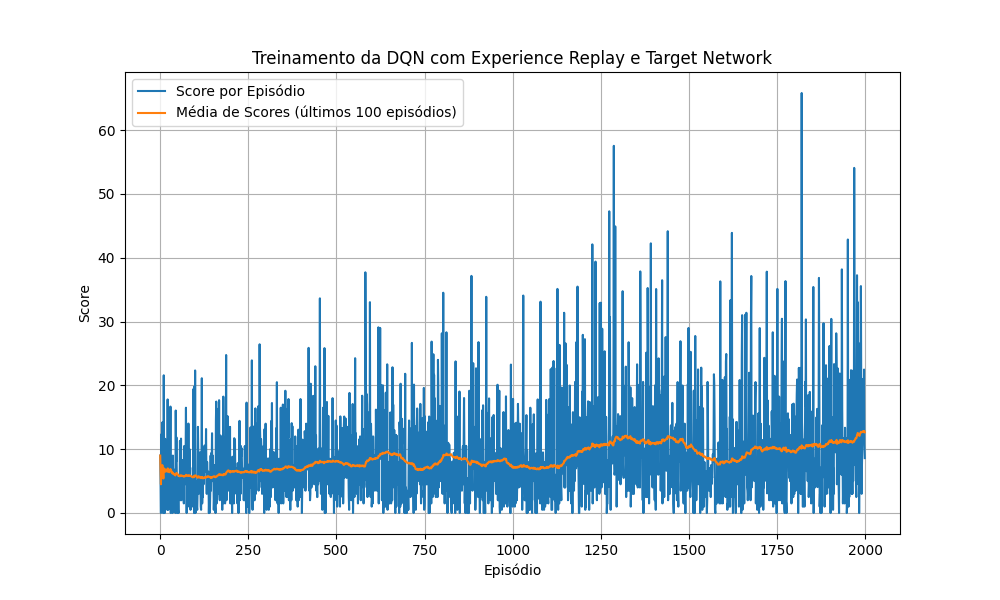
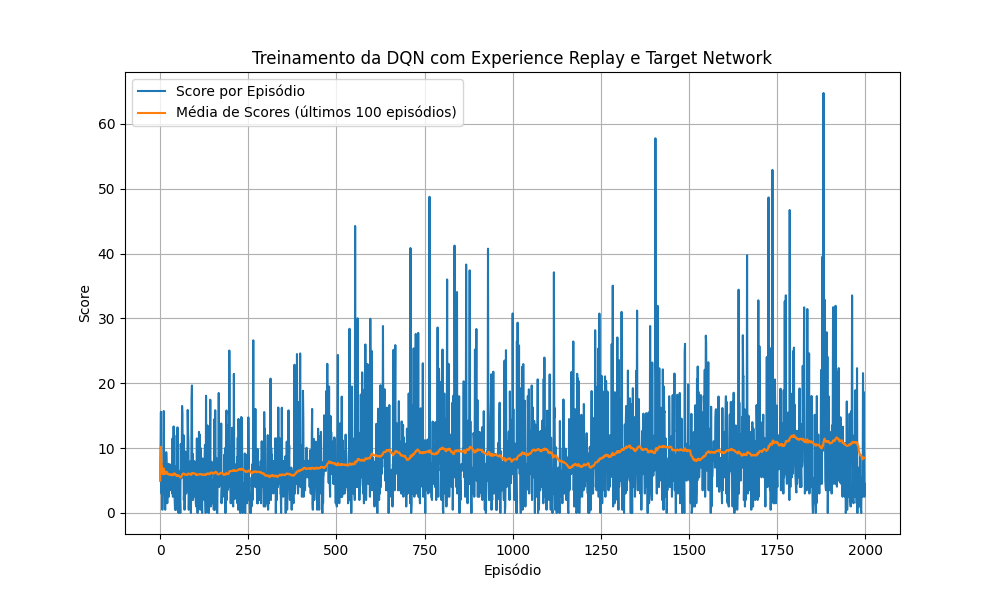
update Task2

Changed region(s): [[0.093, 0.3, 0.899, 0.87], [0.775, 0.18, 0.837, 0.24], [0.093, 0.18, 0.124, 0.24]]

diff --git a/Task2/train.py b/Task2/train.py
@@ -12,30 +12,25 @@ import pygame
 from policies import *
 from utils import preprocess
 # Importa o ReplayBuffer
-from Task2.replay_buffer import ReplayBuffer 
+from replay_buffer import ReplayBuffer 
 
 device = torch.device("cuda" if torch.cuda.is_available() else "cpu")
 
 # --- Treinamento --------------------------------------------------------
 def train(env, num_episodes=2000, max_steps_per_episode=1000,
-          epsilon_start=1.0, epsilon_end=0.01, epsilon_decay=0.999,
+          epsilon_start=1.0, epsilon_end=0.01, epsilon_decay=0.995,
           batch_size=64, learning_rate=0.0005, gamma=0.99,
-          buffer_capacity=10000, num_warmup_steps=2000,
-          target_update_freq=100):
+          buffer_capacity=10000, num_warmup_steps=5000,
+          target_update_freq=100, inject_interval=20, inject_amount=1000):
 
     # Modelo principal (online network)
     model = CNN_QNet(input_shape=(1, env.height + 2 * env.border, env.width + 2 * env.border)).to(device)
-    # Target Network - CÓPIA IDÊNTICA DA ONLINE NETWORK
     target_model = CNN_QNet(input_shape=(1, env.height + 2 * env.border, env.width + 2 * env.border)).to(device)
-    target_model.load_state_dict(model.state_dict()) # Inicializa a target com os pesos da online
-    target_model.eval() # Coloca a target network em modo de avaliação (sem updates de gradiente)
+    target_model.load_state_dict(model.state_dict())
+    target_model.eval()
 
     trainer = QTrainer(model, lr=learning_rate, gamma=gamma)
-    
-    # Replay Buffer
     replay_buffer = ReplayBuffer(capacity=buffer_capacity)
-    
-    # Popula o buffer inicialmente (warm-start)
     replay_buffer.populate(env, heuristic_policy, num_warmup_steps)
 
     epsilon = epsilon_start
@@ -44,14 +39,17 @@ def train(env, num_episodes=2000, max_steps_per_episode=1000,
     plot_scores = []
     plot_mean_scores = []
     record = 0
-    
-    # Variável para contar os passos globais e atualizar a target network
     global_step_counter = 0 
-    
+
     print(f"A treinar no dispositivo: {device}...")
     start_time = time.time()
 
     for episode in range(num_episodes):
+        # --- Injecting experiências ---
+        if episode > 0 and episode % inject_interval == 0:
+            replay_buffer.populate(env, heuristic_policy, inject_amount)
+            print(f">>> Injected {inject_amount} heuristic experiences at episode {episode}")
+
         state_raw, _, _, _ = env.reset()
         preprocessed_state = preprocess(state_raw)
         score = 0
@@ -59,7 +57,6 @@ def train(env, num_episodes=2000, max_steps_per_episode=1000,
         done = False
 
         while not done and steps_in_episode < max_steps_per_episode:
-            # Seleciona a ação (epsilon-greedy)
             if random.random() < epsilon:
                 action = random.choice([-1, 0, 1])
             else:
@@ -68,51 +65,38 @@ def train(env, num_episodes=2000, max_steps_per_episode=1000,
                     prediction = model(state_tensor)
                 action = [-1, 0, 1][torch.argmax(prediction).item()]
 
-            # Executa a ação
             next_state_raw, reward, done, info = env.step(action)
             preprocessed_next_state = preprocess(next_state_raw)
 
-            # Armazena a transição no replay buffer
             action_idx = action + 1
             replay_buffer.add(preprocessed_state, action_idx, reward, preprocessed_next_state, done)
 
-            # Atualiza o estado
             preprocessed_state = preprocessed_next_state
             score += reward
             steps_in_episode += 1
             global_step_counter += 1
 
-            # Treina o modelo se houver experiências suficientes no buffer e a cada 4 passos (para eficiência)
             if len(replay_buffer) > batch_size and global_step_counter % 4 == 0:
-                # Amostra um batch do buffer
                 states_batch, actions_batch, rewards_batch, next_states_batch, dones_batch = replay_buffer.sample(batch_size)
-                
-                # Converte para tensores PyTorch
+
                 states_batch = torch.tensor(states_batch, dtype=torch.float32).to(device)
                 actions_batch = torch.tensor(actions_batch, dtype=torch.int64).to(device)
                 rewards_batch = torch.tensor(rewards_batch, dtype=torch.float32).to(device)
                 next_states_batch = torch.tensor(next_states_batch, dtype=torch.float32).to(device)
                 dones_batch = torch.tensor(dones_batch, dtype=torch.bool).to(device)
 
-                # Calcular Q-values para o estado atual (online network)
                 q_values_online = model(states_batch)
                 q_current_action = q_values_online.gather(1, actions_batch.unsqueeze(1)).squeeze(1)
 
-                # Calcular Q-values para o próximo estado (target network)
                 with torch.no_grad():
                     q_next_state = target_model(next_states_batch).max(1)[0]
 
-                # Calcular os alvos Q-values
                 q_targets = rewards_batch + trainer.gamma * q_next_state * (~dones_batch)
-
-                # Chamar o train_step com os Q_current_action e q_targets
                 loss = trainer.train_step(q_current_action, q_targets)
-            
-            # Atualiza a Target Network a cada 'target_update_freq' passos globais
+
             if global_step_counter % target_update_freq == 0:
                 target_model.load_state_dict(model.state_dict())
-            
-        # Reduz epsilon
+
         epsilon = max(epsilon_end, epsilon * epsilon_decay)
 
         total_scores.append(score)
@@ -125,7 +109,7 @@ def train(env, num_episodes=2000, max_steps_per_episode=1000,
 
         elapsed_time = time.time() - start_time
         print(f'Episódio {episode+1}/{num_episodes} | Score: {score:.2f} | Recorde: {record:.2f} | Epsilon: {epsilon:.2f} | Média Score (100): {mean_score:.2f} | Passos no episódio: {steps_in_episode} | Tempo Decorrido: {elapsed_time:.1f}s')
-        
+
         plot_scores.append(score)
         plot_mean_scores.append(mean_score)
 
@@ -133,8 +117,7 @@ def train(env, num_episodes=2000, max_steps_per_episode=1000,
     print(f"\nTreino concluído em {total_training_time:.1f}s.")
     print(f"Pontuação média total: {np.mean(total_scores):.2f}")
 
-    # Plotar resultados
-    os.makedirs('./Task1/images', exist_ok=True)
+    os.makedirs('./Task2/images', exist_ok=True)
 
     plt.figure(figsize=(10, 6))
     plt.plot(plot_scores, label='Score por Episódio')
@@ -144,7 +127,7 @@ def train(env, num_episodes=2000, max_steps_per_episode=1000,
     plt.ylabel('Score')
     plt.legend()
     plt.grid(True)
-    plt.savefig('./Task1/images/treino_score_dqn_enhanced.png')
+    plt.savefig('./Task2/images/treino_score_dqn_enhanced.png')
     plt.close()
 
     plt.figure(figsize=(10, 6))
@@ -154,9 +137,8 @@ def train(env, num_episodes=2000, max_steps_per_episode=1000,
     plt.ylabel('Epsilon')
     plt.legend()
     plt.grid(True)
-    plt.savefig('./Task1/images/treino_epsilon_dqn_enhanced.png')
+    plt.savefig('./Task2/images/treino_epsilon_dqn_enhanced.png')
     plt.close()
-
 
     return model
 
@@ -260,4 +242,3 @@ def play_with_policy(env, policy, policy_name="Política", num_episodes=10, fps=
 
     print(f"Pontuação média para {policy_name} em {num_episodes} episódios: {np.mean(scores):.2f}")
     pygame.quit()
-

diff --git a/Task2/policies.py b/Task2/policies.py
@@ -156,7 +156,7 @@ def heuristic_policy(env, pathfind="bfs"):
     hy, hx = head
     ay, ax = apple
 
-    # 1) Usa BFS para encontrar o caminho mais curto até à maçã
+    # 1) Usa BFS ou A* para encontrar o caminho mais curto até à maçã
     pathfinder = bfs_path if pathfind == "bfs" else astar_path
     if path is None or len(path) == 0:
         path = pathfinder(head, apple, [head] + tail, env.width, env.height, env.border)
@@ -168,7 +168,6 @@ def heuristic_policy(env, pathfind="bfs"):
         next_cell = path.pop(0)
         ny, nx = next_cell
         # Calcula “direção desejada” com base na diferença entre head e next_cell
-        # Se head=(hy,hx) e next_cell=(ny,nx), então:
         if ny < hy:
             desired = 0  # N
         elif ny > hy:
@@ -178,15 +177,19 @@ def heuristic_policy(env, pathfind="bfs"):
         else:
             desired = 3  # W
 
-        # Converte desired em action = {-1,0,1} baseando-se em “direction”
-        action = ((desired - direction + 2) & 3) - 2
+        # Converte desired em action = {-1, 0, 1} baseando-se em “direction”
+        diff = (desired - direction) % 4  # Normalize to [0, 1, 2, 3]
+        if diff == 0:
+            action = 0  # Continue straight
+        elif diff == 1 or diff == 3:
+            action = 1 if diff == 1 else -1  # Turn right (diff=1) or left (diff=3)
+        else:
+            action = 0  # Opposite direction (diff=2), default to straight
         return action
 
-    # 2) Se não existir caminho via BFS (path is None), volta ao “look-ahead” de 1 passo:
+    # 2) Se não existir caminho via BFS/A* (path is None), volta ao “look-ahead” de 1 passo:
     #    tenta a ação que evita colisões no próximo movimento
     hy, hx = head
-    # Tenta ação “direção desejada” original antes usada (apontar à fruta)
-    # Reutiliza a lógica anterior para “desired” e “diff”
     if ay < hy:
         desired = 0
     elif ay > hy:
@@ -196,7 +199,13 @@ def heuristic_policy(env, pathfind="bfs"):
     else:
         desired = 3
 
-    action = ((desired - direction + 2) & 3) - 2
+    diff = (desired - direction) % 4
+    if diff == 0:
+        action = 0
+    elif diff == 1 or diff == 3:
+        action = 1 if diff == 1 else -1
+    else:
+        action = 0  # Default to straight if opposite direction
 
     # Simula “ver qual a célula seguinte” se usares action
     nd = (direction + action) % 4

diff --git a/Task2/main.py b/Task2/main.py
@@ -1,6 +1,6 @@
 #from train import *
 from snake_game import SnakeGame
-from Task2.train_task2 import *
+from train import *
 
 def id_from_env(env):
     """
@@ -44,7 +44,7 @@ if __name__ == '__main__':
     border = 1
     env = SnakeGame(*board_size, border=border)
 
-    model = get_model(env, force_train=False, file_name='model4.pth')
+    model = get_model(env, force_train=False, file_name='best_model.pth')
     
     # evaluate_heuristic_baseline(env, num_episodes=100)
 
@@ -57,45 +57,3 @@ if __name__ == '__main__':
     #evaluate_and_show_best(model, env, num_eval_episodes=10, top_k=3, scale=10, slow_fps=5)
     play(model, env, num_eval_episodes=100, top_k=10)
     
-    
-    
-    
-        
-    
-    
-    
-    
-# import torch
-# from snake_game import SnakeGame
-# from train import train, play_with_policy, play_with_model
-# from Task1.policies import random_policy, heuristic_policy
-# from model import CNN_QNet
-
-# if __name__ == '__main__':
-#     # Check CUDA
-#     device = torch.device("cuda" if torch.cuda.is_available() else "cpu")
-#     print(f"Using device: {device}")
-#     if torch.cuda.is_available():
-#         print(f"CUDA Device: {torch.cuda.get_device_name(0)}")
-#     else:
-#         print("Running on CPU")
-
-#     # Initialize environment and model
-#     env = SnakeGame(30, 30, border=1)
-#     model = CNN_QNet().to(device)
-
-#     # Train
-#     print("\nStarting training...")
-#     model = train()
-
-#     # Visualize random policy
-#     print("\nRunning random policy visualization...")
-#     play_with_policy(env, random_policy, policy_name="Random", scale=10, fps=10, num_episodes=5)
-
-#     # Visualize heuristic policy
-#     print("\nRunning heuristic policy visualization...")
-#     play_with_policy(env, heuristic_policy, policy_name="Heuristic", scale=10, fps=10, num_episodes=5)
-
-#     # Visualize trained model
-#     print("\nRunning trained model visualization...")
-#     play_with_model(env, model, scale=10, fps=10, num_episodes=5, device=device)

diff --git a/Task2/model.py b/Task2/model.py
@@ -6,7 +6,7 @@ import torch.optim as optim
 import os
 
 class CNN_QNet(nn.Module):
-    model_folder_path = './Task1/model'
+    model_folder_path = './Task2/model'
 
     def __init__(self, input_shape=(1, 32, 32), num_actions=3):
         super().__init__()
@@ -68,38 +68,6 @@ class QTrainer:
         self.gamma = gamma
         self.optimizer = optim.Adam(model.parameters(), lr=self.lr)
         self.criterion = nn.MSELoss()
-
-    # def train_step(self, state, action, reward, next_state, done):
-    #     # Convert to torch tensors
-    #     state = torch.tensor(state, dtype=torch.float32).to(self.device)
-    #     next_state = torch.tensor(next_state, dtype=torch.float32).to(self.device)
-    #     action = torch.tensor(action, dtype=torch.int64).to(self.device)
-    #     reward = torch.tensor(reward, dtype=torch.float32).to(self.device)
-
-
-    #     if len(state.shape) == 3:  # single sample
-    #         state = state.unsqueeze(0)
-    #         next_state = next_state.unsqueeze(0)
-    #         action = action.unsqueeze(0)
-    #         reward = reward.unsqueeze(0)
-    #         done = (done,)
-
-    #     # Predicted Q values
-    #     pred = self.model(state)
-    #     target = pred.clone()
-
-    #     for i in range(len(done)):
-    #         Q_new = reward[i]
-    #         if not done[i]:
-    #             Q_new += self.gamma * torch.max(self.model(next_state[i].unsqueeze(0)))
-    #         target[i][action[i]] = Q_new
-
-    #     self.optimizer.zero_grad()
-    #     loss = self.criterion(target, pred)
-    #     loss.backward()
-    #     self.optimizer.step()
-    #     return loss.item() #return the loss value
-    
     
     def train_step(self, q_current_action, q_targets): # <- MODIFICADO: Agora aceita Q-values atuais e targets
         """

diff --git a/Task2/utils.py b/Task2/utils.py
@@ -14,16 +14,3 @@ def preprocess(state):
     state_gray = cv2.cvtColor(state_uint8, cv2.COLOR_RGB2GRAY) # Correção aqui
     state_gray = state_gray / 255.0 # Normaliza de volta para [0, 1]
     return np.expand_dims(state_gray, axis=0) # (1, H, W)
-
-"""def preprocess(state):
-    # Assume state is (H, W, 3) RGB with only 4 unique colors
-    # Map each unique color to an index 1,2,3,4
-    # First, define the color palette (hardcoded or inferred)
-    state_reshaped = state.reshape(-1, 3)
-    unique_colors = np.unique(state_reshaped, axis=0)
-    # Sort for consistency
-    unique_colors = np.array(sorted([tuple(c) for c in unique_colors]))
-    color_to_idx = {tuple(color): idx+1 for idx, color in enumerate(unique_colors)}
-    idx_map = np.array([color_to_idx[tuple(pixel)] for pixel in state_reshaped])
-    idx_img = idx_map.reshape(state.shape[0], state.shape[1])
-    return np.expand_dims(idx_img, axis=0)  # (1, H, W)"""

diff --git a/Task2/snake_game.py b/Task2/snake_game.py
@@ -62,7 +62,7 @@ class SnakeGame:
     def check_collisions(self):
         "check if game is over by colliding with edge or itself"
         # just need to check snake's head
-        x,y = self.snake[0]
+        y,x = self.snake[0]
         if (x == -1 or x == self.height 
             or y == -1 or y == self.width
             or (x,y) in self.snake[1:]):
